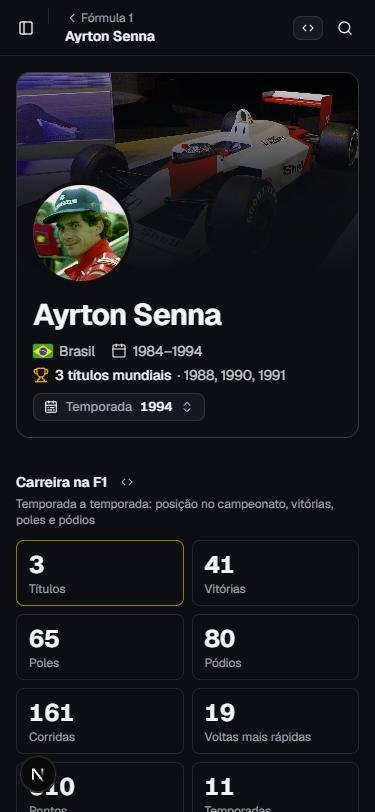
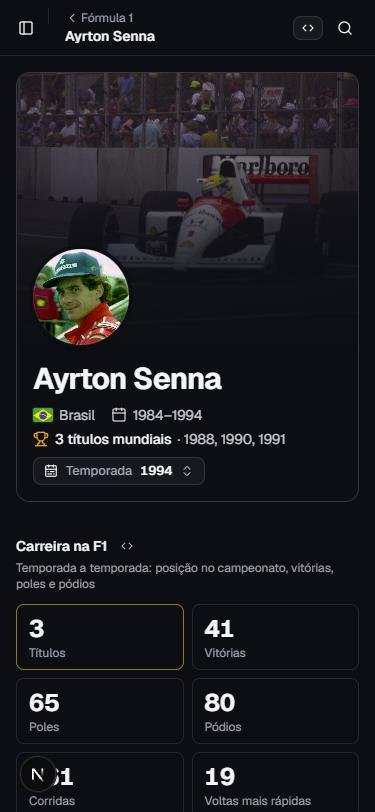
feat(f1,demo): fundo do heading do piloto sem CC BY-SA e Senna com Phoenix 1991
Sobre o carro de destaque do #243 (`highlight_car` no manifesto):

- Senna: `highlight_car` manual em car/mclaren/1991, cuja primeira foto é a de Phoenix 1991 com o #1 de
  campeão (CC BY 2.0), pedido do Wagner.
- O fundo recorta a foto no navegador (cover), o que é uma adaptação: CC BY-SA não entra (decisão do Wagner).
  - Importação: `highlightPhoto` liga ao piloto a primeira foto do carro que não foi rejeitada e não é BY-SA.
  - Teste do manifesto: curadoria (`match: manual`) de carro sem foto compatível falha.
  - Demo: `coverable` ignora destaque BY-SA e pula o carro BY-SA da temporada; sem foto compatível, cor da
    equipe. Fotos BY-SA seguem na galeria, inteiras e com crédito. O retrato no círculo fica como está.
- Heading: foto enquadrada um pouco abaixo do centro, esmaecido mais curto no desktop e faixa maior no
  celular, para o carro aparecer.
- Runbook das fotos e item 26 do doc de navegação atualizados.

Substitui o #244 (curadoria paralela em destaques.yaml, que ficou redundante com o #243).

Changed region(s): [[0.0293, 0.0924, 0.968, 1.0], [0.704, 0.431, 0.7627, 0.4926], [0.4693, 0.8005, 0.4987, 0.8313]]

diff --git a/services/ingestor/src/assets/commons/import.ts b/services/ingestor/src/assets/commons/import.ts
@@ -5,8 +5,9 @@
  * 3. grava no nosso storage com a nossa nomenclatura (`commons/f1/{drivers|cars}/<id do participante>.<hash>`);
  * 4. registra `core.asset` (origin `commons`), o crédito (`core.asset_credit`) e o vínculo com o piloto ou o
  *    construtor (`core.participant_photo`). O logo do participante não muda.
- * 5. carro de destaque do piloto (`highlight_car` no manifesto): a primeira foto daquele carro também vira
- *    vínculo do piloto, com o papel `highlight_car` e a temporada (heading da página do piloto).
+ * 5. carro de destaque do piloto (`highlight_car` no manifesto): a primeira foto daquele carro que pode ir ao
+ *    fundo (`highlightPhoto`: sem CC BY-SA) também vira vínculo do piloto, com o papel `highlight_car` e a
+ *    temporada (heading da página do piloto).
  * Idempotente: o mesmo manifesto não regrava nada; foto que saiu do manifesto (ou foi rejeitada) sai do
  * participante (o asset fica).
  */
@@ -18,7 +19,12 @@ import { imageInfo } from '../image-info.js';
 import type { ObjectStore } from '../object-store.js';
 import type { WikimediaClient } from './client.js';
 import { readLicense } from './license.js';
-import { COMMONS_ACERVO_ID, type CommonsManifest, type ManifestEntry } from './manifest.js';
+import {
+  COMMONS_ACERVO_ID,
+  type CommonsManifest,
+  type ManifestEntry,
+  type ManifestPhoto,
+} from './manifest.js';
 
 /** Largura da miniatura pedida à Commons (o original nunca é servido; a Commons não amplia). */
 export const COMMONS_THUMB_WIDTH = 1600;
@@ -259,7 +265,16 @@ export async function importCommons(
   return report;
 }
 
-/** Carro de destaque de cada piloto: a primeira foto (não rejeitada) do alvo do carro, já no storage. */
+/**
+ * Foto do carro de destaque: a primeira não rejeitada e sem CC BY-SA. O heading recorta a foto no navegador
+ * (cover), o que é uma adaptação; BY-SA pediria a mesma licença na obra derivada. Só BY-SA no carro: o piloto
+ * fica sem destaque (o heading usa a cor da equipe), e as fotos seguem na galeria, inteiras e com crédito.
+ */
+export function highlightPhoto(car: ManifestEntry | undefined): ManifestPhoto | undefined {
+  return car?.photos.find((p) => p.match !== 'rejected' && !p.share_alike);
+}
+
+/** Carro de destaque de cada piloto: a foto do alvo do carro (`highlightPhoto`), já no storage. */
 async function linkHighlights(
   db: Database,
   manifest: CommonsManifest,
@@ -271,7 +286,7 @@ async function linkHighlights(
     if (entry.kind !== 'driver') continue;
     const h = entry.highlight_car ?? null;
     if (opts.only && !opts.only.has(entry.target) && !(h && opts.only.has(h.target))) continue;
-    const photo = h ? byTarget.get(h.target)?.photos.find((p) => p.match !== 'rejected') : undefined;
+    const photo = h ? highlightPhoto(byTarget.get(h.target)) : undefined;
     if (opts.plan) {
       if (photo) report.highlights += 1;
       continue;

diff --git a/apps/demo/src/lib/driver-hero.test.ts b/apps/demo/src/lib/driver-hero.test.ts
@@ -1,9 +1,9 @@
 import type { CareerSeason, Photo, RaceCareer } from '@galaxie/contracts';
 import { describe, expect, it } from 'vitest';
 
-import { careerSpan, heroPhotos, heroSeason } from './driver-hero';
+import { careerSpan, coverable, heroPhotos, heroSeason } from './driver-hero';
 
-const car = { url: 'https://cdn/car.jpg' } as Photo;
+const car = { url: 'https://cdn/car.jpg', credit: { share_alike: false } } as Photo;
 
 function season(year: number, o: Partial<CareerSeason> = {}): CareerSeason {
   return {
@@ -74,7 +74,7 @@ describe('temporada do carro no heading do piloto', () => {
   });
 
   it('carro de destaque do acervo (curadoria): a temporada e a foto dele, com o piloto', () => {
-    const withSenna = { url: 'https://cdn/mp4-4-senna.jpg' } as Photo;
+    const withSenna = { url: 'https://cdn/mp4-4-senna.jpg', credit: { share_alike: false } } as Photo;
     const shots = heroPhotos({ ...senna, portrait: null, highlight: { season: 1991, car: withSenna } });
     expect(shots.season?.year).toBe(1991);
     expect(shots.car).toBe(withSenna);
@@ -83,6 +83,40 @@ describe('temporada do carro no heading do piloto', () => {
     expect(
       heroPhotos({ ...senna, portrait: null, highlight: { season: 1991, car: noUrl } }).season?.year,
     ).toBe(1988);
+  });
+
+  describe('fundo só com foto que pode ser recortada (sem CC BY-SA)', () => {
+    const bySa = { url: 'https://cdn/sa.jpg', season: 1988, credit: { share_alike: true } } as Photo;
+    const by = { url: 'https://cdn/by.jpg', season: 1990, credit: { share_alike: false } } as Photo;
+
+    it('coverable', () => {
+      expect(coverable(by)).toBe(true);
+      expect(coverable(bySa)).toBe(false);
+      expect(coverable(null)).toBe(false);
+    });
+
+    it('regra: pula o carro BY-SA e vai para a próxima temporada', () => {
+      const c = career([
+        season(1988, { position: 1, wins: 8, car: bySa }),
+        season(1990, { position: 1, wins: 6, car: by }),
+      ]);
+      expect(heroSeason(c)?.year).toBe(1990);
+      expect(heroPhotos({ ...c, portrait: null, highlight: null }).car).toBe(by);
+    });
+
+    it('só carros BY-SA: sem foto de fundo (fica a cor da equipe da temporada marcante)', () => {
+      const c = career([season(1988, { position: 1, wins: 8, car: bySa })]);
+      const shots = heroPhotos({ ...c, portrait: null, highlight: null });
+      expect(shots.car).toBeNull();
+      expect(shots.season?.year).toBe(1988);
+    });
+
+    it('carro de destaque BY-SA é ignorado e vale a regra', () => {
+      const c = career([season(1990, { position: 1, wins: 6, car: by })]);
+      const shots = heroPhotos({ ...c, portrait: null, highlight: { season: 1988, car: bySa } });
+      expect(shots.car).toBe(by);
+      expect(shots.season?.year).toBe(1990);
+    });
   });
 
   it('anos de carreira', () => {

diff --git a/apps/demo/src/lib/driver-hero.ts b/apps/demo/src/lib/driver-hero.ts
@@ -3,7 +3,16 @@ import type { CareerSeason, Photo, RaceCareer } from '@galaxie/contracts';
 const isTitle = (s: CareerSeason) => s.final && s.position === 1;
 
 /**
- * Temporada do carro no heading do piloto: a mais marcante que tenha foto do carro.
+ * Foto que pode ir ao fundo do heading: o fundo recorta a foto no navegador (cover), o que é uma adaptação. CC BY,
+ * CC0 e domínio público permitem; CC BY-SA não (fica na galeria, inteira e com crédito).
+ */
+export function coverable(photo: Photo | null | undefined): photo is Photo {
+  return !!photo?.url && !photo.credit.share_alike;
+}
+
+/**
+ * Temporada do carro no heading do piloto: a mais marcante que tenha foto do carro que possa ir ao fundo
+ * (`coverable`: sem CC BY-SA).
  *
  * Ordem: curadoria (`curated`, quando houver) → título com mais vitórias → mais vitórias → a mais recente.
  * Sem foto em nenhuma, fica a mais marcante, e o heading usa a cor da equipe dela. Quando o acervo ganha a
@@ -16,12 +25,13 @@ export function heroSeason(career: RaceCareer, curated?: number | null): CareerS
   const ranked = [...raced].sort(
     (a, b) => Number(isTitle(b)) - Number(isTitle(a)) || b.wins - a.wins || b.year - a.year,
   );
-  return ranked.find((s) => s.car?.url) ?? ranked[0] ?? null;
+  return ranked.find((s) => coverable(s.car)) ?? ranked[0] ?? null;
 }
 
 /**
- * Fotos do heading: o carro de destaque do acervo (ou o da temporada marcante, quando há) e o retrato. O heading não mostra crédito: as duas
- * entram na galeria da página, com o crédito da licença.
+ * Fotos do heading: o carro de destaque do acervo (ou o da temporada marcante, quando há) e o retrato. O fundo
+ * nunca é CC BY-SA (`coverable`); sem foto compatível, fica a cor da equipe. O heading não mostra crédito: as
+ * duas entram na galeria da página, com o crédito da licença.
  */
 export function heroPhotos(career: RaceCareer): {
   season: CareerSeason | null;
@@ -29,10 +39,14 @@ export function heroPhotos(career: RaceCareer): {
   portrait: Photo | null;
 } {
   // carro de destaque do acervo (`highlight`, curadoria): a temporada e a foto dele, de preferência com o piloto
-  const highlight = career.highlight?.car.url ? career.highlight : null;
+  const highlight = coverable(career.highlight?.car) ? career.highlight : null;
   const season = heroSeason(career, highlight?.season);
   const car =
-    highlight && season?.year === highlight.season ? highlight.car : season?.car?.url ? season.car : null;
+    highlight && season?.year === highlight.season
+      ? highlight.car
+      : coverable(season?.car)
+        ? season.car
+        : null;
   return {
     season,
     car,

diff --git a/services/ingestor/src/assets/commons/highlight.test.ts b/services/ingestor/src/assets/commons/highlight.test.ts
@@ -1,0 +1,62 @@
+import { fileURLToPath } from 'node:url';
+import { describe, expect, it } from 'vitest';
+import { highlightPhoto } from './import.js';
+import { readManifest, type ManifestEntry, type ManifestPhoto } from './manifest.js';
+
+const photo = (file: string, o: Partial<ManifestPhoto> = {}) =>
+  ({ file, match: 'auto', share_alike: false, ...o }) as ManifestPhoto;
+const car = (photos: ManifestPhoto[]) => ({ target: 'car/mclaren/1991', photos }) as ManifestEntry;
+
+describe('foto do carro de destaque (fundo do heading do piloto)', () => {
+  it('a primeira não rejeitada e sem CC BY-SA', () => {
+    expect(
+      highlightPhoto(
+        car([
+          photo('File:rejeitada.jpg', { match: 'rejected' }),
+          photo('File:by-sa.jpg', { share_alike: true }),
+          photo('File:by.jpg'),
+        ]),
+      )?.file,
+    ).toBe('File:by.jpg');
+  });
+
+  it('só BY-SA: sem destaque (o heading usa a cor da equipe)', () => {
+    expect(highlightPhoto(car([photo('File:by-sa.jpg', { share_alike: true })]))).toBeUndefined();
+    expect(highlightPhoto(undefined)).toBeUndefined();
+  });
+
+  describe('manifesto', () => {
+    const manifest = readManifest(
+      fileURLToPath(new URL('../../../../../config/assets/commons/f1.yaml', import.meta.url)),
+    )!;
+    const byTarget = new Map(manifest.entries.map((e) => [e.target, e]));
+
+    it('curadoria do carro de destaque recusa carro sem foto compatível (BY-SA no fundo não entra)', () => {
+      const curated = manifest.entries.filter((e) => e.highlight_car?.match === 'manual');
+      expect(curated.length).toBeGreaterThan(0);
+      for (const e of curated) {
+        const target = byTarget.get(e.highlight_car!.target);
+        expect(target, `${e.target} → ${e.highlight_car!.target}`).toBeDefined();
+        const chosen = highlightPhoto(target);
+        expect(
+          chosen,
+          `${e.target}: ${e.highlight_car!.target} só tem foto CC BY-SA ou rejeitada`,
+        ).toBeDefined();
+        expect(chosen!.share_alike).toBe(false);
+        expect(chosen!.license).not.toMatch(/BY-SA/i);
+      }
+    });
+
+    it('Senna: Phoenix 1991, com o #1 de campeão', () => {
+      const senna = byTarget.get('driver/ayrton-senna')!;
+      expect(senna.highlight_car).toMatchObject({
+        target: 'car/mclaren/1991',
+        season: 1991,
+        match: 'manual',
+      });
+      expect(highlightPhoto(byTarget.get('car/mclaren/1991'))?.file).toBe(
+        'File:Ayrton Senna 1991 USA 3 cropped.jpg',
+      );
+    });
+  });
+});

diff --git a/apps/demo/src/components/sport/driver-hero.tsx b/apps/demo/src/components/sport/driver-hero.tsx
@@ -50,7 +50,7 @@ export async function DriverHero({
         <img
           src={car.url!}
           alt=""
-          className="motion-safe:animate-in motion-safe:fade-in absolute inset-x-0 top-0 -z-20 h-56 w-full object-cover md:inset-0 md:h-full motion-safe:duration-700"
+          className="motion-safe:animate-in motion-safe:fade-in absolute inset-x-0 top-0 -z-20 h-64 w-full object-cover object-[50%_65%] md:inset-0 md:h-full motion-safe:duration-700"
         />
       ) : colors ? (
         <div aria-hidden className="absolute inset-0 -z-20" style={{ background: colors.gradient }} />
@@ -59,13 +59,13 @@ export async function DriverHero({
           direita no desktop */}
       <div
         aria-hidden
-        className="from-background via-background/85 to-background/10 md:from-background md:via-background/80 md:to-background/0 absolute inset-0 -z-10 bg-gradient-to-t from-45% via-70% md:bg-gradient-to-r md:from-20% md:via-50% md:to-90%"
+        className="from-background via-background/85 to-background/10 md:from-background md:via-background/70 md:to-background/0 absolute inset-0 -z-10 bg-gradient-to-t from-35% via-55% md:bg-gradient-to-r md:from-15% md:via-40% md:to-75%"
       />
 
       <div
         className={cn(
           'flex flex-col gap-4 p-4 sm:flex-row sm:items-end md:p-6',
-          car && 'pt-28',
+          car && 'pt-44',
           colors && 'pt-16',
         )}
       >

diff --git a/packages/contracts/src/racing.ts b/packages/contracts/src/racing.ts
@@ -145,7 +145,7 @@ export const RaceCareer = z
     portrait: Photo.nullable(),
     highlight: z.object({ season: z.number().int(), car: Photo }).nullable().meta({
       description:
-        'Piloto: carro de destaque (a temporada de título com mais vitórias ou, sem título, a de mais vitórias; curadoria no acervo). Para o topo da página, com o retrato na frente.',
+        'Piloto: carro de destaque (a temporada de título com mais vitórias ou, sem título, a de mais vitórias; curadoria no acervo). Para o topo da página, com o retrato na frente. Nunca CC BY-SA: o fundo recorta a foto.',
     }),
   })
   .meta({ id: 'RaceCareer' });

diff --git a/docs/ux/navegacao-avaliacao.md b/docs/ux/navegacao-avaliacao.md
@@ -372,7 +372,11 @@ Explorar no celular: **6.100 px → 3.070 px** (9.500 px antes do #200).
 **Correção:**
 
 - **Fundo:** o carro da temporada mais marcante cobre o heading, esmaecido para o texto ler nos dois temas: da esquerda para a direita no desktop, de baixo para cima no celular, com o carro numa faixa no topo.
-- **Qual carro:** curadoria, quando houver (ainda não há dado de curadoria). Depois, a temporada de título com mais vitórias, a de mais vitórias e, por fim, o último carro com foto. Uma temporada sem foto é pulada, então o heading melhora sozinho quando o acervo ganha fotos. Senna: McLaren de 1988.
+- **Qual carro:** primeiro o carro de destaque do acervo (`highlight_car` no manifesto de fotos, #243), que tem curadoria (`match: manual`). O Senna fica com **Phoenix 1991**, com o #1 de campeão, escolhida pelo Wagner. Sem destaque, vale a regra: a temporada de título com mais vitórias, depois a de mais vitórias e, por fim, o último carro com foto. Uma temporada sem foto é pulada, então o heading melhora sozinho quando o acervo ganha fotos.
+- **Licença do fundo:** o fundo recorta a foto no navegador (cover), o que é uma adaptação. Por isso só entra foto CC BY, CC0 ou domínio público, valendo para a regra, para a curadoria e para o carro da temporada (decisão do Wagner). Fotos CC BY-SA ficam na galeria, inteiras e com crédito. Um teste recusa curadoria sem foto compatível. Sem foto compatível, o fundo é a cor da equipe. O retrato no círculo segue como está, também quando é BY-SA (decisão do Wagner). Exemplo: no Michael Schumacher, o carro de destaque é o de 2004 (CC BY-SA), então o fundo vai para o de 2002, em domínio público.
+
+  ![Schumacher: fundo com o carro de 2002, em domínio público](img/depois-piloto-fundo-sem-by-sa.jpg)
+
 - **Frente:** retrato em destaque, nome, bandeira e país, anos de carreira, títulos mundiais (com os anos) e o seletor de temporada.
 - **Crédito:** o heading não mostra crédito. O carro e o retrato dele entram primeiro na galeria da mesma página, com autor, Commons e licença, então a atribuição continua na página. O carro entra mesmo quando não estava na galeria do piloto.
 - **Sem foto:** sem foto do carro, o fundo é a cor da equipe daquele ano (`colors` novo nas equipes da carreira, aditivo na API). Sem cor e sem foto, o heading fica compacto. Sem retrato, as iniciais.

diff --git a/docs/runbooks/fotos-commons.md b/docs/runbooks/fotos-commons.md
@@ -103,7 +103,7 @@ pnpm --filter @galaxie/ingestor assets:commons
 - `auto`: vem da regra e é refeito a cada varredura.
 - `manual`: curadoria. Troque o `target` e a `season` e marque `match: manual`; a varredura não mexe mais.
 
-Na importação, a primeira foto (não rejeitada) desse carro vira também vínculo do piloto, com o papel `highlight_car` e a temporada. Se o carro não tiver foto, o piloto fica sem destaque: nunca uma foto ruim.
+Na importação, a primeira foto desse carro que não foi rejeitada **e não é CC BY-SA** vira também vínculo do piloto, com o papel `highlight_car` e a temporada (`highlightPhoto`). O motivo: o heading recorta a foto no navegador (cover), o que é uma adaptação, e BY-SA pediria a mesma licença na obra derivada. Se o carro não tiver foto compatível, o piloto fica sem destaque e o heading usa a cor da equipe: nunca uma foto ruim. As fotos BY-SA continuam na galeria, inteiras e com crédito. Um teste recusa curadoria (`match: manual`) de carro sem foto compatível.
 
 `config/assets/commons/f1.cobertura.md` mostra, por alvo, as fotos e licenças e, na última varredura, candidatas, aceitas e os motivos de recusa mais comuns.
 
